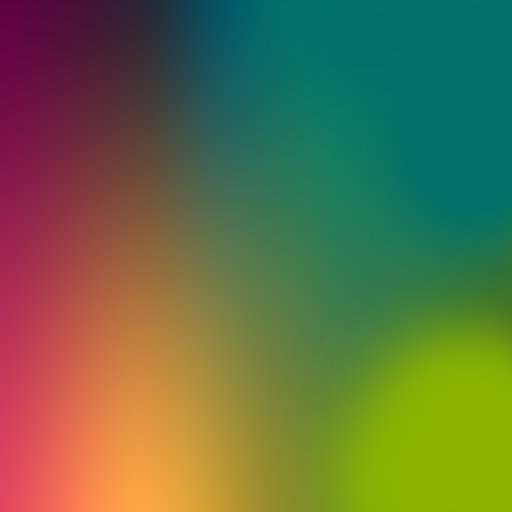
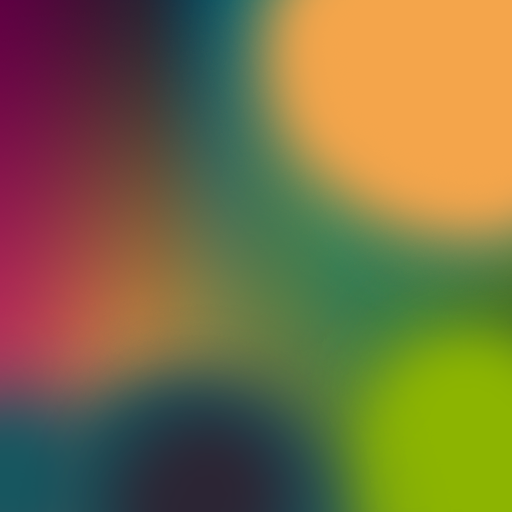
Updated gradients. no cache index.html. updated params for motion blur and modified shader gens

diff --git a/fitc/shaderGenAlpha.js b/fitc/shaderGenAlpha.js
@@ -17,7 +17,7 @@ function shaderGenAlpha(base){
 	this.parts['c'] = "c.rgb = mod(c.rgb+uv.x+t*.5, .5);\n";
 	this.parts['d'] = "c.rgb += cos(c.rgb+vec3(floor(mod(uv.y*2.+length(c.rgb), 3.))*.33, t, floor(mod(uv.y*2.,2.))*.25))*0.1;\n";
 	this.parts['e'] = "uv.y +=floor(mod(uv.y*4.+sin(t)+floor(uv.x*10.)*.5,4.))*.05-.025;\n";
-	this.parts['f'] = "uv.y = length(uv.xy+c.rb*.1)-.05;\n";
+	this.parts['f'] = "uv.y += length(uv.xy+c.rb*.1)-.05;\n";
 	this.parts['g'] = "c.rgb = sin((c.rgb+vec3(.0,.33,.66)+uv.x*.5)*6.+t)*.5+.5;\n";
 	this.parts['h'] = "uv.x =uv.x+ mod(c.r, .5);\n";
 	this.parts['i'] = "uv.x+= length(mod(c.rgb, 1.))*.1-.1;\n";
@@ -25,19 +25,19 @@ function shaderGenAlpha(base){
 	this.parts['k'] = "uv.x-= length(mod(floor(uv*vec2(10., 30.)), 2.))*.1;\n";
 	this.parts['l'] = "c.rgb = cos((c.brg+vec3(.0,.333,.666)+uv.x)*3.+t)*.5+.5;\n";
 	this.parts['m'] = "c.rgb += sin(dot(c.rgb, pow(c.grb, vec3(.5))))*0.1;\n";
-	this.parts['n'] = "c.rgb = cos(c.rgb+vec3(floor(uv*vec2(4.)), c.r*2.))*length(c.rgb);\n";
+	this.parts['n'] = "c.rgb = cos(c.rgb+vec3(floor(uv*vec2(4.)), c.r*2.))*length(mod(c.rgb, vec3(1.0)));\n";
 	this.parts['o'] = "uv.xy += sign(sin((50.+mod(floor((uv.x)*20.), 4.)))*(abs(mod((uv.x+uv.y)*6., 2.))+t))*.1;\n";
 	this.parts['p'] = "c.rgb += sin((c.rgb+vec3(floor(uv*vec2(2.)), c.r*2.))*length(c.rgb))*0.1;\n"; 
 	this.parts['q'] = "uv.y += (mod((t+uv.y)*.2,1. )-.05)*.66;\n";
-	this.parts['r'] = "c.rg -= boxes(uv, 0.5, 3.0);\n";
-	this.parts['s'] = "c.rgb = cos((c.rbg+vec3(sin(t),.33,cos(t)))*2.)*.5+.5;\n";
+	this.parts['r'] = "c.rg -= boxes(uv, 0.5, 2.0)*0.25;\n";
+	this.parts['s'] = "c.rgb = cos((c.rbg+vec3(sin(uv.x*3. + t),cos(uv.x + t), .33))*5.)*.5+.5;\n";
 	this.parts['t'] = "c.rb = min(c.rb,c.br);\n";
 	this.parts['u'] = "c.rgb = mod(1.+c.rgb+sin(vec3(.33,.25,.66)+t+floor(uv.x*5.)), vec3(1.));\n";
 	this.parts['v'] = "c.rgb = 1.0-c.brg;\n";
-	this.parts['w'] = "c.rgb = c.brg*.666;\n";
+	this.parts['w'] = "c.rgb = c.brg*.8666;\n";
 	this.parts['x'] = "c.rgb = mod(c.rgb*vec3(1., 4., 2.),1.);\n";
   	this.parts['y'] = "c.rgb = mod(c.rgb+t*.2+vec3(.66,.33,.0), vec3(1.));\n";
-	this.parts['z'] = "c.rgb = c.brg*.666;\n";
+	this.parts['z'] = "c.rgb = c.brg*1.333;\n";
 }
 
 shaderGenAlpha.prototype.getShader = function(s){

diff --git a/index.html b/index.html
@@ -3,10 +3,15 @@
 	<head>
 		<meta charset=utf-8>
 		<meta property="og:title"
-content="▲ FITC Toronto Intro 2017 ▲" />
-		<meta property="og:site_name" content="???.net"/>
-		<meta property="og:description" content="intro credits for FITC Toronto 2017" />
+content="▲ FITC WebU 2017 ▲" />
+		<meta property="og:site_name" content=""/>
+		<meta property="og:description" content="FITC Web Unleashed 2017" />
 		<meta property="og:image" content=""/>
+        <meta http-equiv="cache-control" content="max-age=0" />
+        <meta http-equiv="cache-control" content="no-cache" />
+        <meta http-equiv="expires" content="0" />
+        <meta http-equiv="expires" content="Tue, 01 Jan 1980 1:00:00 GMT" />
+        <meta http-equiv="pragma" content="no-cache" />
 		<title>▲ FITC Intro ▲</title>
 		<link rel="stylesheet" type="text/css" href="style.css">
 	</head>
@@ -112,7 +117,7 @@ content="▲ FITC Toronto Intro 2017 ▲" />
                 }
                 audio.stopAll();    
 
-                introController.show(5.0, () => { warmup(); });
+                introController.show(8.0, () => { warmup(); });
             }
             
             function scheduleBeats() {

diff --git a/fitc/textController.js b/fitc/textController.js
@@ -175,7 +175,7 @@ textController.prototype.registerAnimations = function() {
 	var delayPerLetter = base.scheduler.totalBeat/2;
 	var easeOutTime = 1;
 	var startEaseOut = base.scheduler.totalPhrase-easeOutTime;	
-   
+   self.base.blur.pass.uniforms.noiseAmplitude.value = 0.0;
     base.scheduler.callNextPhraseRange((progress)=>{
         for (var i = 0; i < self.currentDisplayedMeshes.length; i++)
         {
@@ -195,12 +195,13 @@ textController.prototype.registerAnimations = function() {
             this.uniforms.time.value = base.time.time;
         }
         
-        self.base.blur.pass.uniforms.noiseAmplitude.value = progress * 0.01;
+        self.base.blur.pass.uniforms.noiseAmplitude.value = Math.lerp(0.0, 0.025, progress);
         self.base.blur.pass.uniforms.strength.value = Math.lerp(0.7, 1.0, progress);
 
-    }, 0.7, 1.0);
+    }, 0.65, 1.0);
     
     base.scheduler.callNextPhraseRange((progress)=>{
+        self.base.blur.pass.uniforms.noiseAmplitude.value = Math.lerp(0.025, 0.0, progress);
         self.base.blur.pass.uniforms.strength.value = Math.lerp(1.0, 0.7,progress);
     }, 0.0, 0.3);
 }

diff --git a/camp/fx/ccMotionBlur.js b/camp/fx/ccMotionBlur.js
@@ -32,8 +32,9 @@ ccMotionBlur = function ( base, strength ) {
             "	float angleNoise = ((angle+3.14159)/6.28318)*cycles;\n"+
             "	float l = length(uv);\n"+
             "	l *= (.5 - noise(angleNoise*noiseFrequency + time, cycles)*noiseAmplitude);\n"+
-            "	uv = vec2(cos(angle)*l + 0.5, sin(angle)*l + 0.5);\n"+	        
-			"	gl_FragColor = texture2D(tex,local) + texture2D(blur,uv) * strength;\n"+	
+            "	uv = vec2(cos(angle)*l + 0.5, sin(angle)*l + 0.5);\n"+
+            "   vec4 col = texture2D(tex,local);\n"+
+			"	gl_FragColor = col + texture2D(blur,uv) * strength;\n"+
 			"}";
 	var defaultFrag = "varying vec2 local;\n"+
 			"uniform sampler2D tex;\n"+

diff --git a/fitc/IntroController.js b/fitc/IntroController.js
@@ -33,8 +33,9 @@ IntroController.prototype.update = function() {
     introController.mesh.rotation.z = Math.cos(introController.time)*0.05;
     introController.mesh.rotation.y = Math.cos(introController.time*1.25)*0.05;
 
-    base.blur.pass.uniforms.strength.value = Math.lerp(0.5, 1.0, progress);
-    base.blur.pass.uniforms.noiseAmplitude.value = Math.lerp(0.0, 0.05, progress);
+    var p = Math.min(1.0, progress*1.5);
+    base.blur.pass.uniforms.strength.value = Math.lerp(0.5, 0.95, p);
+    base.blur.pass.uniforms.noiseAmplitude.value = Math.lerp(0.0, 0.05, p);
     
     introController.time += base.time.delta;
 }

diff --git a/fitc/tunnelController.js b/fitc/tunnelController.js
@@ -21,7 +21,6 @@ tunnelController.prototype.init = function(){
 
 tunnelController.prototype.addToScene = function() {
     this.material.uniforms.intensity.value = 1.0;
-    //base.scene.add(this.mesh);
 }
 
 tunnelController.prototype.removeFromScene = function() {
